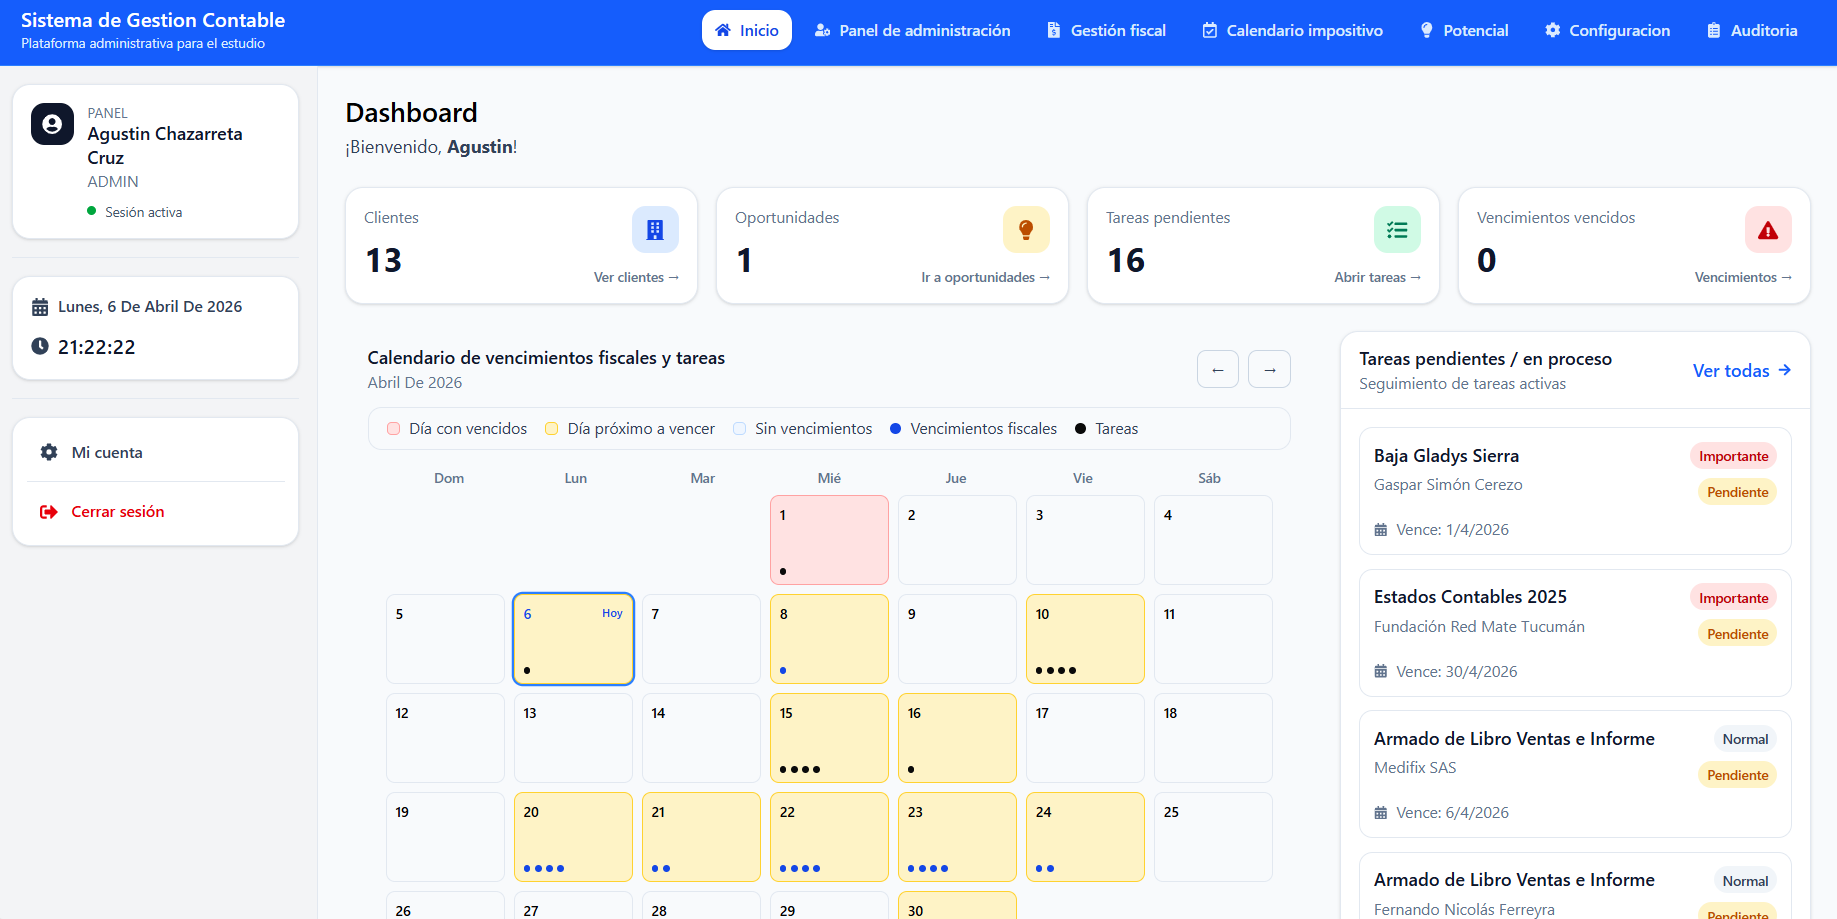
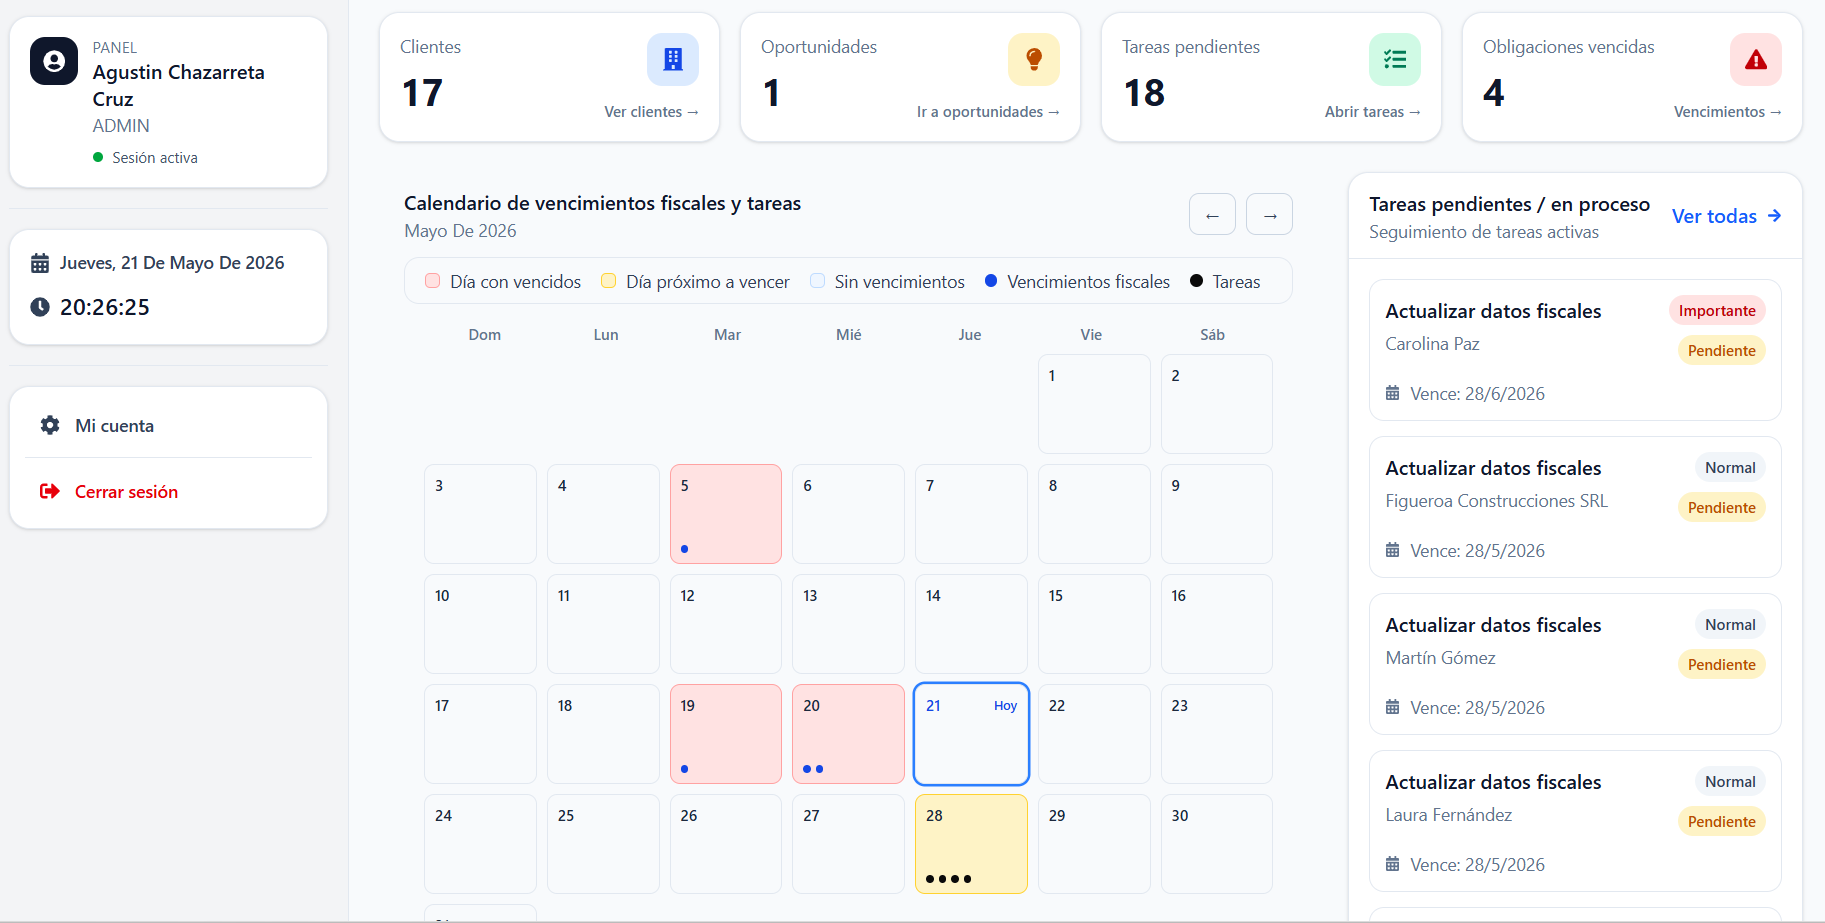
Cambios

diff --git a/src/data/projectsData.js b/src/data/projectsData.js
@@ -1,6 +1,6 @@
 import fotoApi from "../assets/Api.jpg"
 import fotoTodo from "../assets/todoapp.jpg"
-import fotoClase from "../assets/fotoclase.jpg"
+// import fotoClase from "../assets/fotoclase.jpg"
 import Gym from "../assets/Gym.png"
 import calculadora from "../assets/calculadora.png"
 import pokeApi1 from "../assets/PokeApi1.png"
@@ -77,19 +77,19 @@ const projects = [
         imagen: calculadora,
         demo: "https://calculator-acc.netlify.app/",
         repo: "https://github.com/Chaza25/calculadora-js"
-    },
-    {
-        id: 6,
-        titulo: "Prácticas Tailwind",
-        descripcion: "Proyecto de práctica enfocado en el aprendizaje de Tailwind CSS, aplicando estilos utilitarios y maquetado moderno. No cuenta con diseño responsive ya que su objetivo principal fue reforzar conceptos básicos.",
-        tecnologias: [
-            "React",
-            "Tailwind"
-        ],
-        imagen: fotoClase,
-        demo: "https://tp2grupo11.netlify.app/",
-        repo: "https://github.com/Chaza25/Tp2-Grupo11"
     }
+    // {
+    //     id: 6,
+    //     titulo: "Prácticas Tailwind",
+    //     descripcion: "Proyecto de práctica enfocado en el aprendizaje de Tailwind CSS, aplicando estilos utilitarios y maquetado moderno. No cuenta con diseño responsive ya que su objetivo principal fue reforzar conceptos básicos.",
+    //     tecnologias: [
+    //         "React",
+    //         "Tailwind"
+    //     ],
+    //     imagen: fotoClase,
+    //     demo: "https://tp2grupo11.netlify.app/",
+    //     repo: "https://github.com/Chaza25/Tp2-Grupo11"
+    // }
 ]
 
 export default projects

diff --git a/src/pages/Projects.jsx b/src/pages/Projects.jsx
@@ -4,8 +4,8 @@ import { FaCircle } from "react-icons/fa"
 import projects from "../data/projectsData"
 import useStore from "../store/useStore"
 import ProjectModal from "../components/ProjectModal"
-import sgc1 from "../assets/SGC Inicio.png"
-import sgc2 from "../assets/SGCdashboard.png"
+import sgc1 from "../assets/SGCdashboard.png"
+import sgc2 from "../assets/SGC Inicio.png"
 import sgc3 from "../assets/SGC panel.png"
 import sgc4 from "../assets/SGC calendario impositivo.png"
 import sgc5 from "../assets/SGC obligaciones.png"
@@ -145,7 +145,7 @@ const Projects = () => {
 
                             <button
                             onClick={() => setOpenModal(true)}
-                            className="bg-blue-500 text-white px-4 py-2 rounded-full text-sm"
+                            className="bg-blue-500 text-white px-4 py-2 rounded-full text-sm cursor-pointer hover:bg-blue-600 transition"
                             >
                                 Ver detalles
                             </button>
